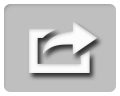
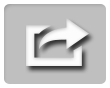
Fixed shared button and added tabs for media View

diff --git a/MobMonkey/MobMonkey/MMLocationMediaViewController.m b/MobMonkey/MobMonkey/MMLocationMediaViewController.m
@@ -10,19 +10,12 @@
 #import "MMClientSDK.h"
 
 @interface MMLocationMediaViewController ()
+@property (weak, nonatomic) IBOutlet UITableView *tableView;
 
 @end
 
 @implementation MMLocationMediaViewController
 
-- (id)initWithStyle:(UITableViewStyle)style
-{
-    self = [super initWithStyle:style];
-    if (self) {
-        // Custom initialization
-    }
-    return self;
-}
 
 - (void)viewDidLoad
 {
@@ -34,6 +27,11 @@
     [backNavbutton setBackgroundImage:[UIImage imageNamed:@"BackBtn~iphone"] forState:UIControlStateNormal];
     
     UIBarButtonItem* backButton = [[UIBarButtonItem alloc]initWithCustomView:backNavbutton];
+    
+    UISegmentedControl *segmentedControl = [[UISegmentedControl alloc] initWithItems:@[@"Live Camera", @"Photos", @"Videos"]];
+    [segmentedControl setTintColor:[UIColor colorWithRed:230.0/255.0 green:113.0/255.0 blue:34.0/255.0 alpha:1.0]];
+    [segmentedControl setSegmentedControlStyle:UISegmentedControlStyleBar];
+    self.navigationItem.titleView = segmentedControl;
     self.navigationItem.leftBarButtonItem = backButton;
 }
 
@@ -91,4 +89,8 @@
     [self.navigationController dismissViewControllerAnimated:YES completion:NULL];
 }
 
+- (void)viewDidUnload {
+    [self setTableView:nil];
+    [super viewDidUnload];
+}
 @end

diff --git a/MobMonkey/MobMonkey/MMLocationViewController.m b/MobMonkey/MobMonkey/MMLocationViewController.m
@@ -48,14 +48,7 @@
     //set location name label text and font
     _locationNameLabel.textColor = [UIColor colorWithRed:.8941 green:.4509 blue:.1725 alpha:1];
     
-    //Add custom back button to the nav bar
-//    UIButton *backNavbutton = [[UIButton alloc]initWithFrame:CGRectMake(0, 0, 39, 30)];
-//    [backNavbutton addTarget:self action:@selector(backButtonTapped:) forControlEvents:UIControlEventTouchUpInside];
-//    [backNavbutton setBackgroundImage:[UIImage imageNamed:@"BackBtn~iphone"] forState:UIControlStateNormal];
-//    
-//    UIBarButtonItem* backButton = [[UIBarButtonItem alloc]initWithCustomView:backNavbutton];
-//    self.navigationItem.leftBarButtonItem = backButton;
-    
+    //Add custom back button to the nav bar    
     
     if ([[NSUserDefaults standardUserDefaults]boolForKey:[NSString stringWithFormat:@"row%dFlagged", self.rowIndex]]) {
         [self.flagButton setBackgroundColor:[UIColor blueColor]];

diff --git a/MobMonkey/MobMonkey/MMLocationsViewController.m b/MobMonkey/MobMonkey/MMLocationsViewController.m
@@ -40,6 +40,9 @@
                                                                           green:112.0/225.0
                                                                            blue:36.0/255.0
                                                                           alpha:1.0]];
+    
+    UIBarButtonItem* backButton = [[UIBarButtonItem alloc] initWithTitle:@"⬅" style:UIBarButtonItemStylePlain target:nil action:nil];
+    self.navigationItem.backBarButtonItem = backButton;
 }
 
 - (void)didReceiveMemoryWarning

diff --git a/MobMonkey/MobMonkey/MMLocationMediaViewController.h b/MobMonkey/MobMonkey/MMLocationMediaViewController.h
@@ -9,7 +9,7 @@
 #import <UIKit/UIKit.h>
 #import "MMLocationMediaCell.h"
 
-@interface MMLocationMediaViewController : UITableViewController
+@interface MMLocationMediaViewController : UIViewController <UITabBarControllerDelegate, UITableViewDataSource>
 
 @property (nonatomic, retain) NSArray *contentList;
 
